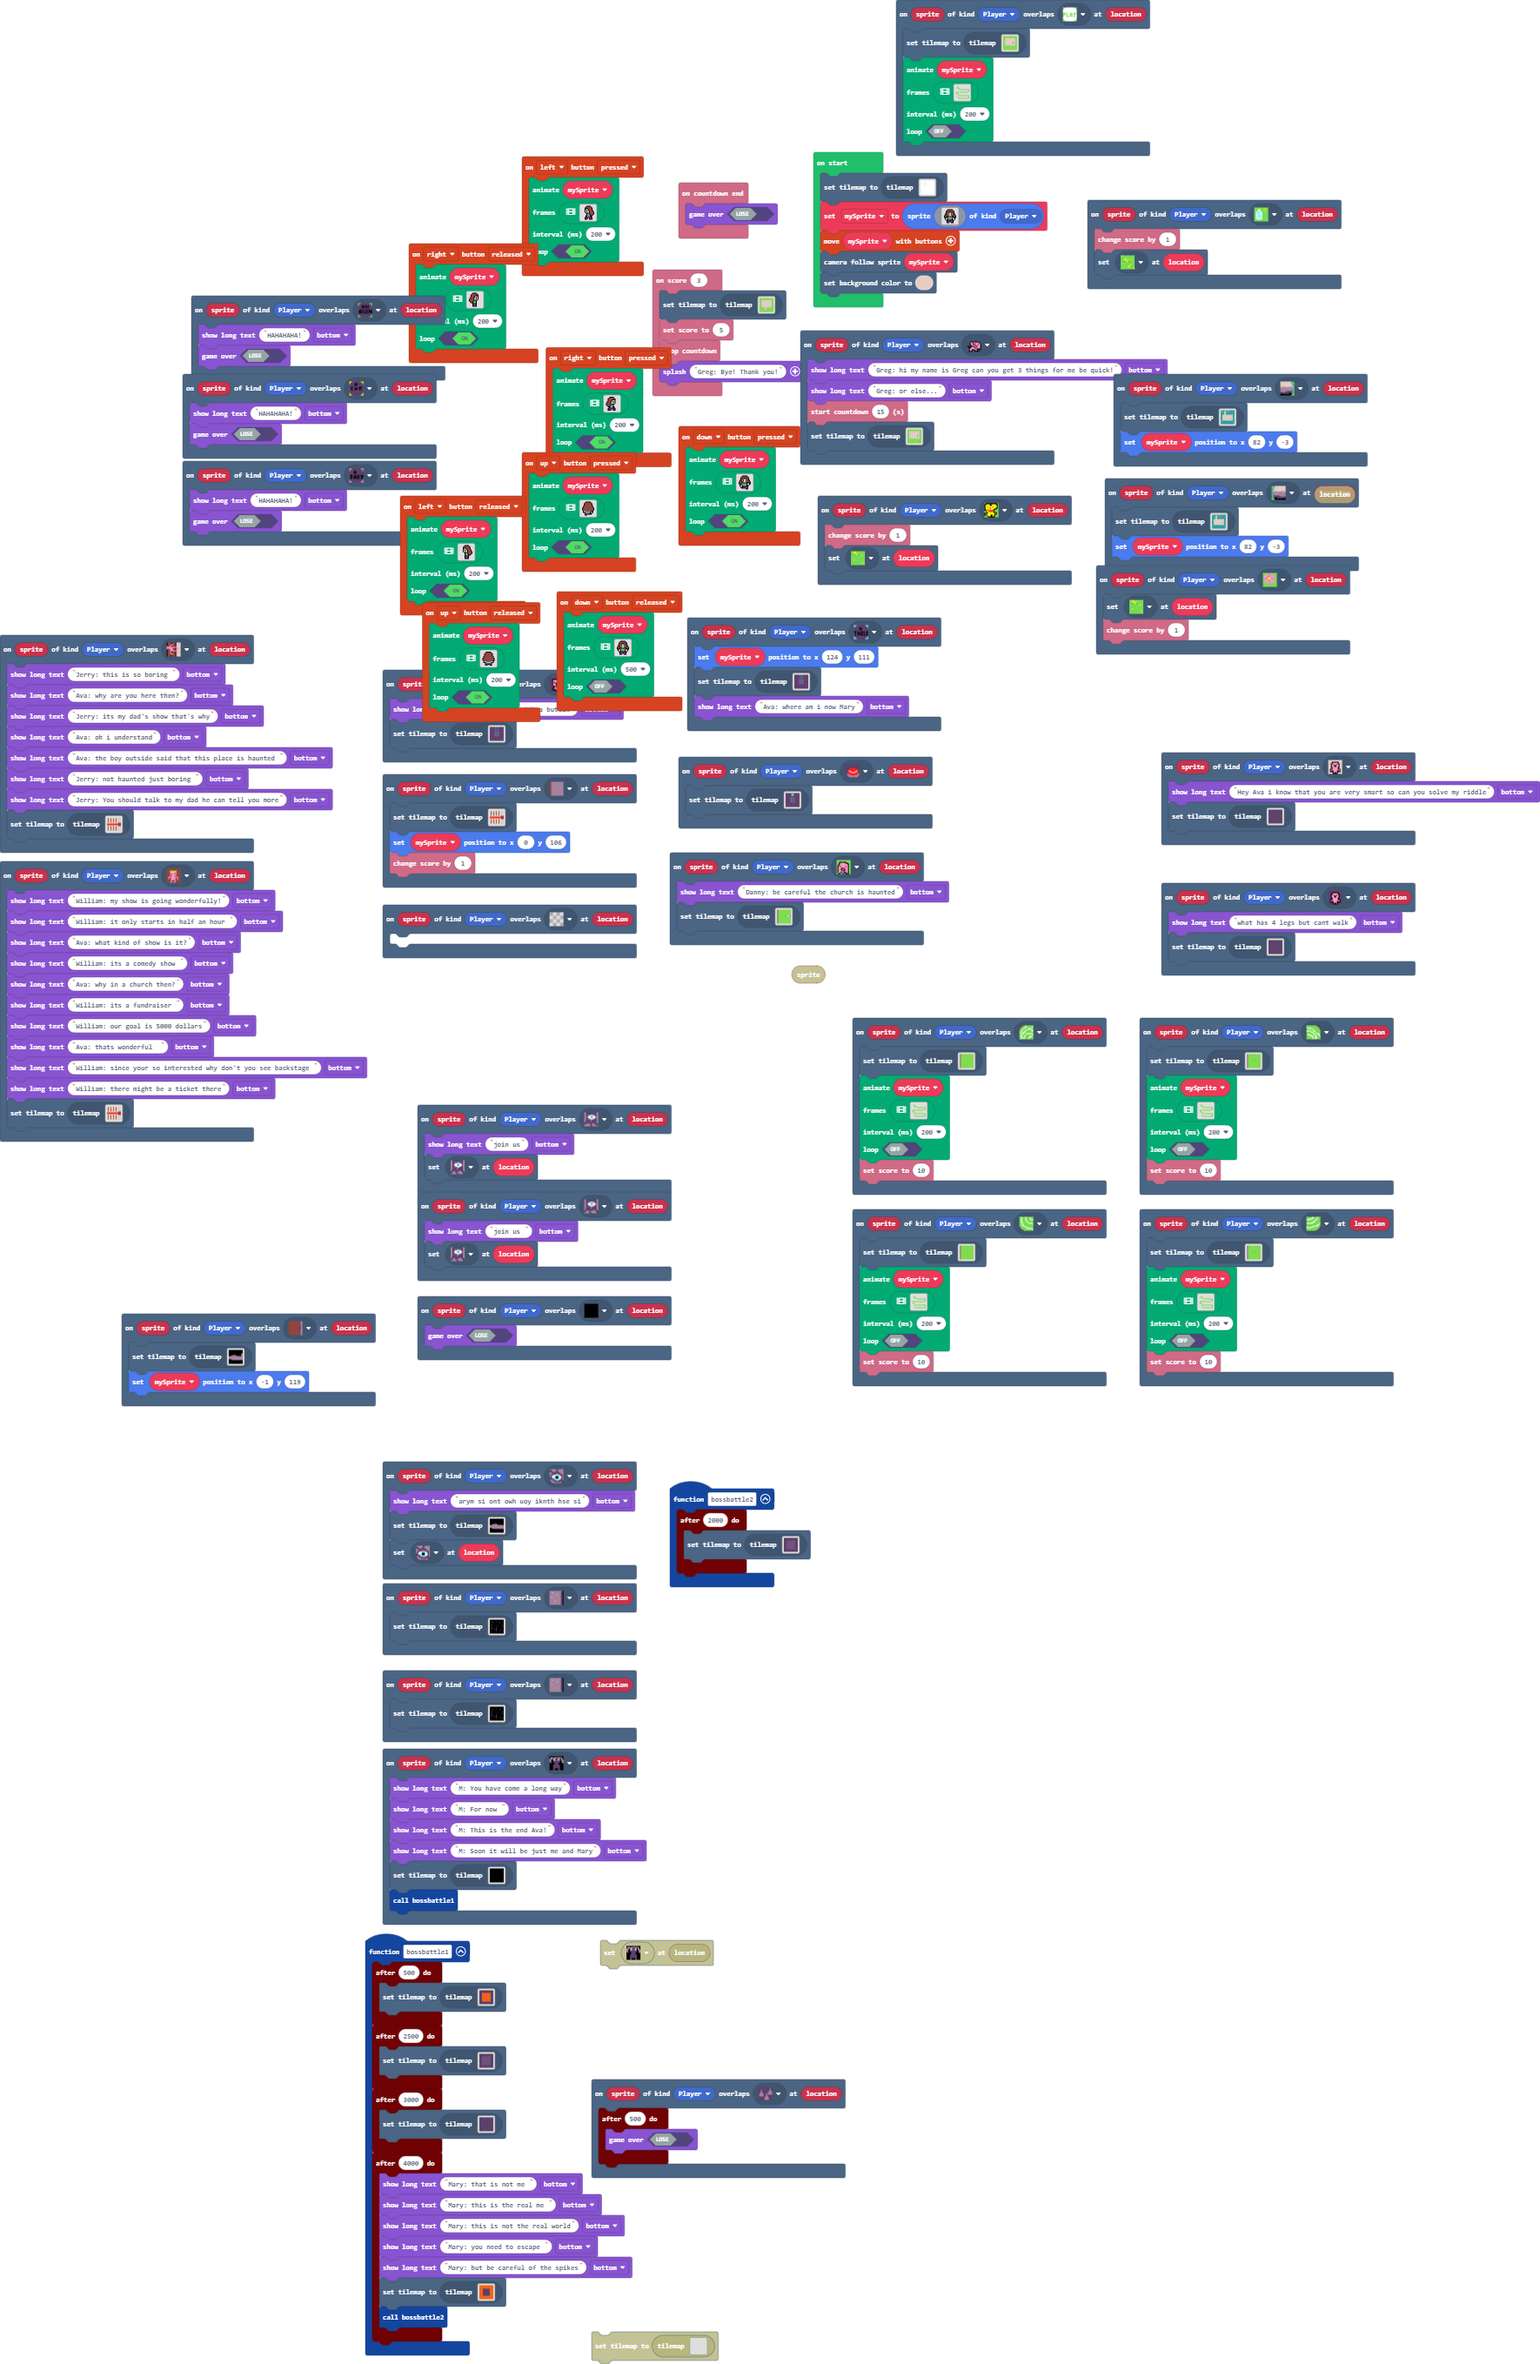
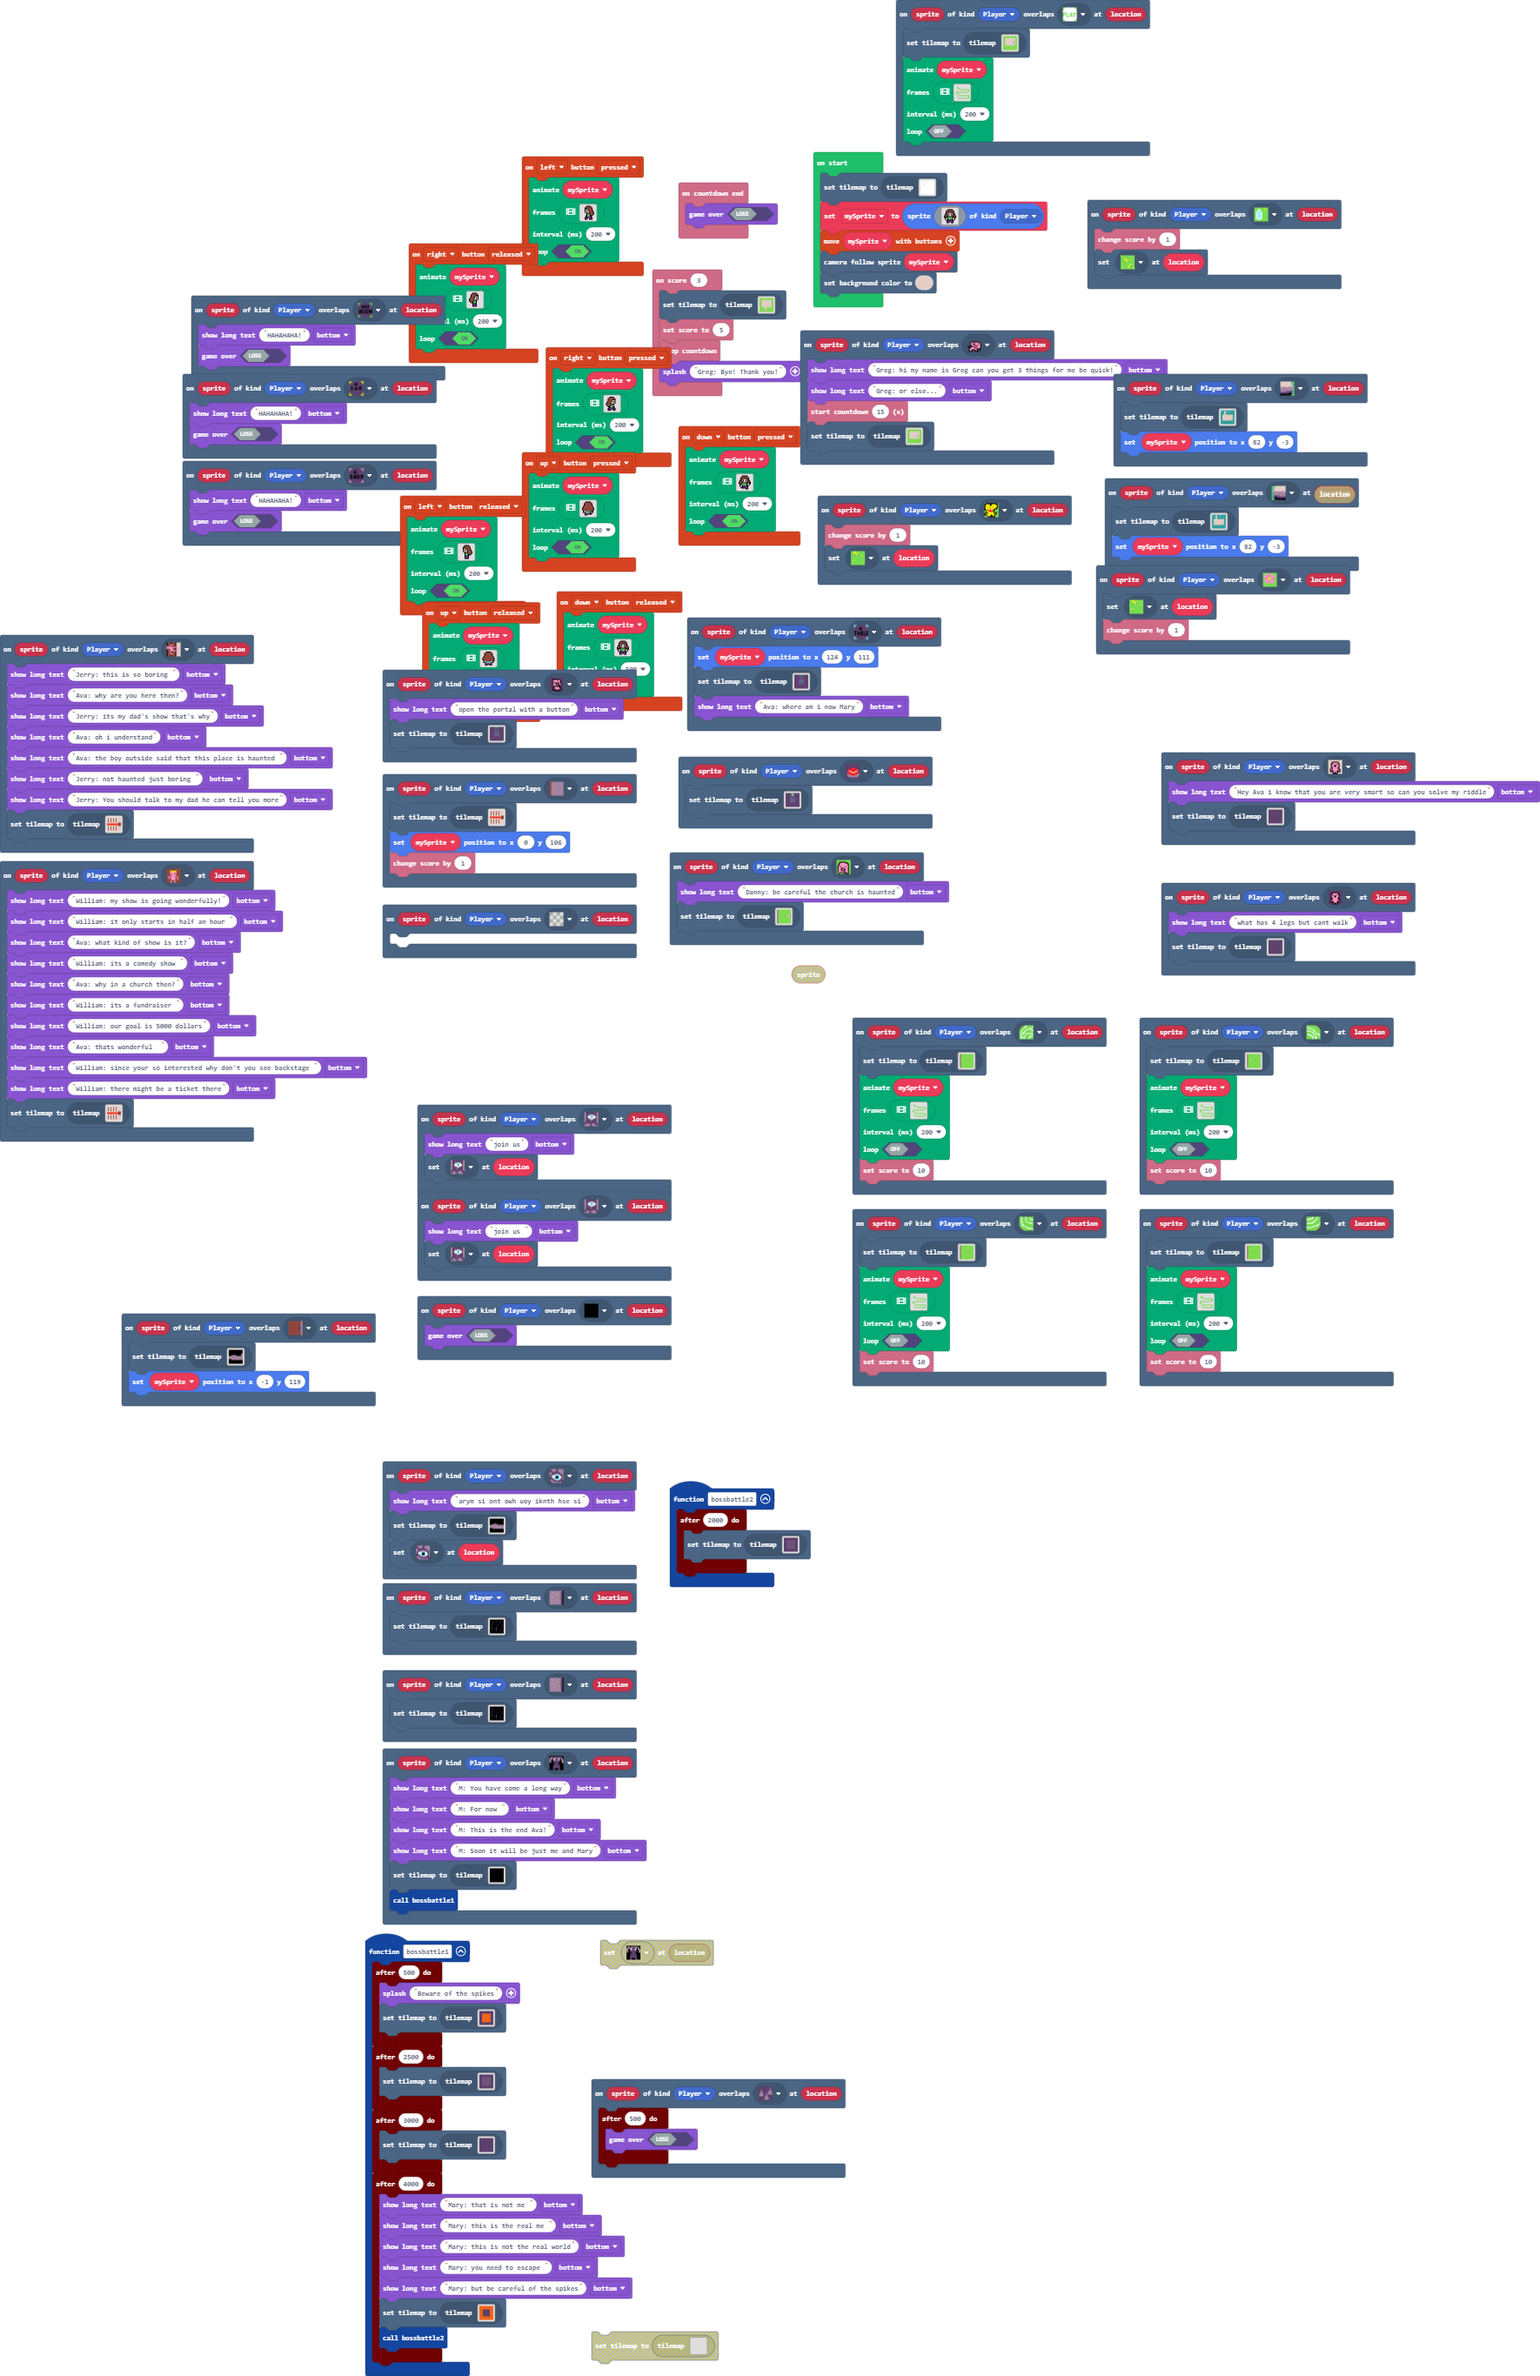
aðeins

Changed region(s): [[0.0, 0.0309, 1.0, 0.5874], [0.0621, 0.4637, 0.5593, 1.0], [0.7147, 0.0618, 0.8701, 0.1237]]

diff --git a/main.ts b/main.ts
@@ -773,6 +773,7 @@ controller.right.onEvent(ControllerButtonEvent.Pressed, function () {
 })
 function bossbattle1 () {
     timer.after(500, function () {
+        game.splash("Beware of the spikes")
         tiles.setCurrentTilemap(tilemap`level52`)
     })
     timer.after(2500, function () {
